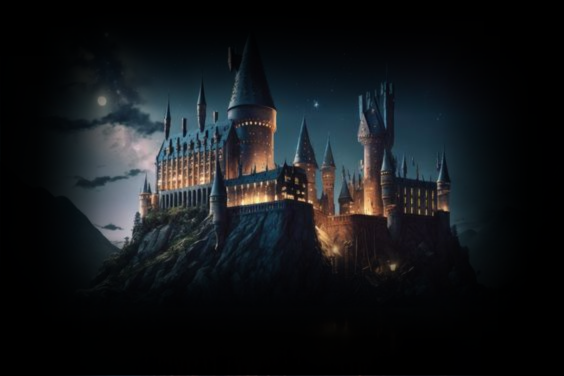
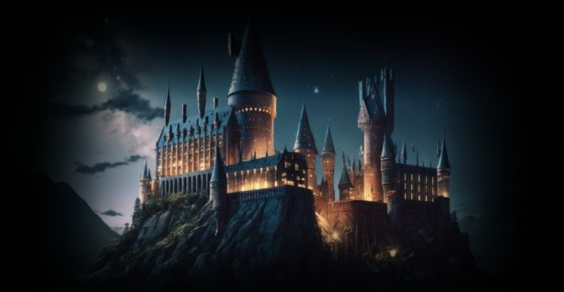
Add a carousel with images and descriptions

Changed region(s): [[0.1206, 0.2158, 0.844, 0.9247], [0.5426, 0.2466, 0.5727, 0.3082]]

diff --git a/HarryPotter Journal/public/main.css b/HarryPotter Journal/public/main.css
@@ -25,7 +25,12 @@ body{
 
 
 /************** HEADER STYLES ***************/
-header {
+header{
+    display: flex;
+    flex-direction: column;
+}
+
+#header {
     background-color: black; /* Make sure your background is black */
     text-align: center;
     position: relative; /* Set relative position to contain the absolute element */
@@ -52,7 +57,7 @@ header {
     width: 30rem;
     /* z-index: -1; */
     position: absolute;
-    top: 50%;
+    top: 43%;
     left: 50%;
     transform: translate(-50%, -50%);
     /* object-fit: scale-down; */
@@ -80,7 +85,6 @@ nav {
     font-optical-sizing: auto;
     font-weight: 200;
     font-style: normal;
-    font-size: 80%;
 }
 
 .nav-btn>a{
@@ -106,6 +110,14 @@ img.divider {
     height: 1rem;
 }
 
+.carousel-item > img {
+    width: 100%;
+    vertical-align: middle;
+    height: 25rem;
+    padding-left: 5%;
+}
+/*************** BOOK PAGE STYLES ***************/
+
 #first-container{
     min-height: 100vh;
     display: flex;
@@ -116,20 +128,52 @@ img.divider {
     background-position: center;
     background-repeat: no-repeat;
     background-size: cover; */
+    background-color: black;
 }
 
 .main-container{
     padding: 1rem 2rem;
     box-sizing: border-box;
     min-height: 60vh;
+    display: flex;
+    justify-content: center;
 }
 
 .form-container{
     display: grid;
     grid-template-rows: auto 1fr 1fr;
-    grid-template-columns: 1fr 1fr 1fr 1fr;
+    grid-template-columns: 1fr 1fr 1fr;
     gap: 2rem;
     height: 100%;
+    width: 70%;
+}
+
+.form-container > label, input, p, span{
+    color: white;
+}
+
+
+.books-label {
+    grid-column-start: 1;
+    grid-column-end: -1;
+    margin-top: 1rem;
+    font-family: primary;
+    font-size: 3rem;
+}
+
+.book-covers{
+    width: 5rem;
+    float: inline-start;
+    
+}
+
+.book-date{
+    clear: left;
+    display: block;
+    font-size: small;
+    /* font-style: italic; */
+    font-family: serif;
+    text-align: right;
 }
 
 .chapters-container{
@@ -137,12 +181,13 @@ img.divider {
     flex-direction: column;
     gap: 1rem;
     height: 100%;
+    width: 70%;
 }
 
-.books-label {
-    grid-column-start: 1;
-    grid-column-end: -1;
-    margin-top: 1rem;
+.chapters-container > label{
+    font-family: primary;
+    font-size: 3rem;
+    color: white
 }
 
 .chapter-card{
@@ -156,24 +201,11 @@ img.divider {
     margin: 0.5rem 0;
 }
 
-.book-covers{
-    width: 5rem;
-    float: inline-start;
-    
-}
 
 .book-description{
     text-align: justify;
 }
 
-.book-date{
-    clear: left;
-    display: block;
-    font-size: small;
-    /* font-style: italic; */
-    font-family: serif;
-    text-align: right;
-}
 
 
 .footer{
@@ -186,6 +218,8 @@ img.divider {
     bottom: 0;
     width: 100%;
 }
+
+/*************** MEDIA QUERY STYLES ***************/
 
 @media (max-width: 600px){
 
